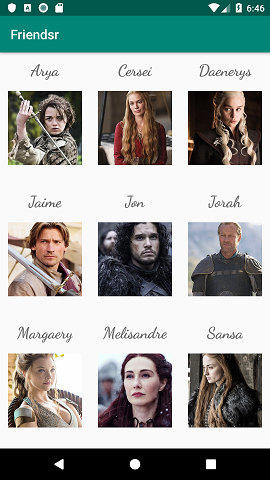
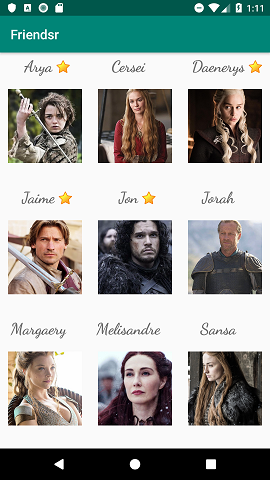
Final commit

diff --git a/app/src/main/java/com/example/marijn/friendsr/ProfileActivity.java b/app/src/main/java/com/example/marijn/friendsr/ProfileActivity.java
@@ -2,11 +2,14 @@ package com.example.marijn.friendsr;
 
 import android.content.Intent;
 import android.content.SharedPreferences;
+import android.support.v4.content.ContextCompat;
 import android.support.v7.app.AppCompatActivity;
 import android.os.Bundle;
+import android.widget.CompoundButton;
 import android.widget.ImageView;
 import android.widget.RatingBar;
 import android.widget.TextView;
+import android.widget.ToggleButton;
 
 /**
  * Marijn Meijering <m.h.j.meijering@uva.nl>
@@ -15,7 +18,9 @@ import android.widget.TextView;
  */
 public class ProfileActivity extends AppCompatActivity {
 
-    private String name;
+    private String name; // Store the name
+    private TextView favouriteText;
+    private ToggleButton favouriteButton; // Store the ToggleButton ID
 
     @Override
     protected void onCreate(Bundle savedInstanceState) {
@@ -31,6 +36,8 @@ public class ProfileActivity extends AppCompatActivity {
         RatingBar ratingBar = findViewById(R.id.ratingBar);
         TextView nameView = findViewById(R.id.nameView);
         TextView bioView = findViewById(R.id.bioView);
+        favouriteText = findViewById(R.id.favText);
+        favouriteButton = findViewById(R.id.favouriteButton);
 
         // Use getName() on the retrieved Friend object to be used later
         name = retrievedFriend.getName();
@@ -40,8 +47,9 @@ public class ProfileActivity extends AppCompatActivity {
         nameView.setText(retrievedFriend.getName());
         bioView.setText(retrievedFriend.getBio());
 
-        // Set an on rating change listener
+        // Set an on rating and on favourite change listener
         ratingBar.setOnRatingBarChangeListener(new ProfileRating());
+        favouriteButton.setOnCheckedChangeListener(new ProfileFavourite());
 
         // Get a previously stored rating
         SharedPreferences prefs = getSharedPreferences("ratings", MODE_PRIVATE);
@@ -49,6 +57,42 @@ public class ProfileActivity extends AppCompatActivity {
 
         // Set the previously stored rating
         ratingBar.setRating(StoredRating);
+
+        // Get a previously stored favourite boolean
+        SharedPreferences prefsFav = getSharedPreferences("favourite", MODE_PRIVATE);
+        Boolean isFav = prefsFav.getBoolean(name.toLowerCase(), false);
+
+        // Set the previously stored favourite state
+        if (isFav) { // If this person was a favourite
+            favouriteButton.setBackgroundDrawable(ContextCompat.getDrawable(getApplicationContext(), R.drawable.yellow_star));
+            favouriteText.setText("This person is a favourite!");
+
+        } else { // If this person was NOT a favourite
+            favouriteButton.setBackgroundDrawable(ContextCompat.getDrawable(getApplicationContext(), R.drawable.grey_star));
+            favouriteText.setText("Favourite this person:");
+        }
+
+
+    }
+
+    // Create an on favourite click listener
+    // With help from: https://stackoverflow.com/questions/34980309/
+    private class ProfileFavourite implements CompoundButton.OnCheckedChangeListener {
+        @Override
+        public void onCheckedChanged(CompoundButton buttonView, boolean isFavourite) {
+            if (isFavourite) { // If favourited
+                favouriteButton.setBackgroundDrawable(ContextCompat.getDrawable(getApplicationContext(), R.drawable.yellow_star));
+                favouriteText.setText("This person is a favourite!");
+            } else { // If unfavourited
+                favouriteButton.setBackgroundDrawable(ContextCompat.getDrawable(getApplicationContext(), R.drawable.grey_star));
+                favouriteText.setText("Favourite this person:");
+            }
+
+            // Edit the old favourite Boolean and store the new value
+            SharedPreferences.Editor editor = getSharedPreferences("favourite", MODE_PRIVATE).edit();
+            editor.putBoolean(name.toLowerCase(), isFavourite);
+            editor.apply();
+        }
     }
 
     // Create an on rating bar change listener

diff --git a/app/src/main/java/com/example/marijn/friendsr/FriendsAdapter.java b/app/src/main/java/com/example/marijn/friendsr/FriendsAdapter.java
@@ -1,14 +1,18 @@
 package com.example.marijn.friendsr;
 
 import android.content.Context;
+import android.content.SharedPreferences;
 import android.support.annotation.NonNull;
 import android.support.annotation.Nullable;
+import android.support.v4.content.ContextCompat;
 import android.view.LayoutInflater;
 import android.view.View;
 import android.view.ViewGroup;
 import android.widget.ArrayAdapter;
 import android.widget.ImageView;
 import android.widget.TextView;
+import android.widget.ToggleButton;
+
 import java.util.ArrayList;
 
 /**
@@ -19,9 +23,11 @@ import java.util.ArrayList;
 public class FriendsAdapter extends ArrayAdapter<Friend> {
 
     private ArrayList friends;
+    private final Context context;
 
     public FriendsAdapter(@NonNull Context context, int resource, @NonNull ArrayList<Friend> objects) {
         super(context, resource, objects);
+        this.context = context;
         friends = objects;
     }
 
@@ -38,6 +44,7 @@ public class FriendsAdapter extends ArrayAdapter<Friend> {
         // Get the profile name (TextView) and picture (ImageView) id
         TextView profileTitle = convertView.findViewById(R.id.profileName);
         ImageView profileImage = convertView.findViewById(R.id.profilePicture);
+        ImageView favourite = convertView.findViewById(R.id.favouriteView);
 
         // Get the index of the Friend that we want to display
         Friend friendPosition = (Friend) friends.get(position);
@@ -46,6 +53,16 @@ public class FriendsAdapter extends ArrayAdapter<Friend> {
         profileTitle.setText(friendPosition.getName());
         profileImage.setImageDrawable(getContext().getResources().getDrawable(friendPosition.getDrawableId()));
 
+        // Get the name of the person
+        String name = friendPosition.getName().toLowerCase();
+
+        // Get the favourite status (boolean)
+        SharedPreferences prefsFav = context.getSharedPreferences("favourite", 0);
+        Boolean isFav = prefsFav.getBoolean(name, false);
+
+        if (isFav) { // If it is a favourite person, make yellow star visible
+            favourite.setVisibility(View.VISIBLE);
+        }
         return convertView;
     }
 }

diff --git a/app/src/main/java/com/example/marijn/friendsr/MainActivity.java b/app/src/main/java/com/example/marijn/friendsr/MainActivity.java
@@ -18,6 +18,8 @@ public class MainActivity extends AppCompatActivity {
     // Create an arrayList to store the sample friends
     ArrayList<Friend> friends = new ArrayList<>();
 
+    private GridView grid; // Variable to hold the GridView ID
+
     @Override
     protected void onCreate(Bundle savedInstanceState) {
         super.onCreate(savedInstanceState);
@@ -51,13 +53,21 @@ public class MainActivity extends AppCompatActivity {
         FriendsAdapter adapter = new FriendsAdapter(this, R.layout.grid_item, friends);
 
         // Get grid id
-        GridView grid = findViewById(R.id.gridDisplay);
+        grid = findViewById(R.id.gridDisplay);
 
         // Attach the adapter to the grid view
         grid.setAdapter(adapter);
 
         // Set on grid item click listener
         grid.setOnItemClickListener(new GridItemClickListener());
+    }
+
+    @Override // After a pause or restart
+    public void onResume() {
+        super.onResume();
+        // Refresh the grid view
+        FriendsAdapter adapter = new FriendsAdapter(this, R.layout.grid_item, friends);
+        grid.setAdapter(adapter);
     }
 
     // Create an on Friend clicked listener
